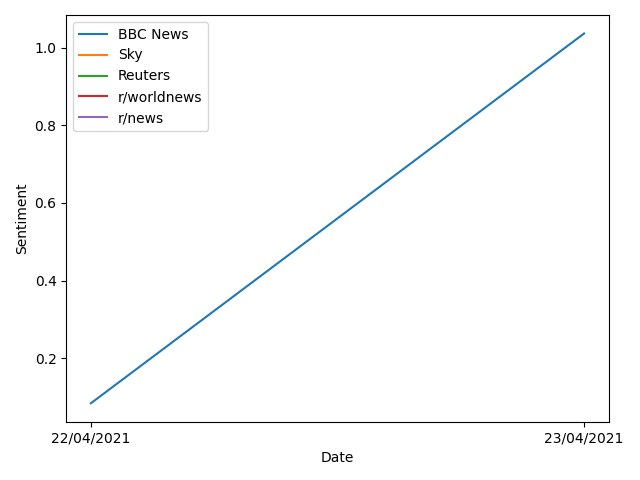
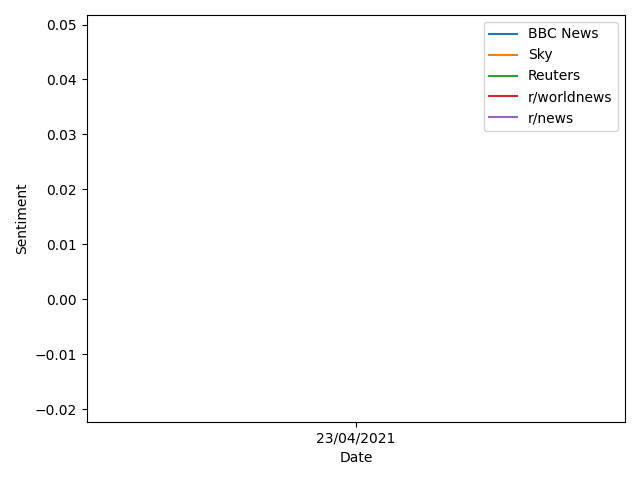
Automatic update (gitControl.py)

diff --git a/code/chart.py b/code/chart.py
@@ -5,10 +5,8 @@ import csv
 dir_path = os.path.dirname(os.path.realpath(__file__))
 
 def plotMeanSentiment():
-    # make graph
     x = []
     y = []
-
     with open(dir_path+'/csv/mean-sentiment.csv', 'r') as csvfile:
         plots = csv.reader(csvfile, delimiter=',')
         for row in plots:
@@ -26,20 +24,16 @@ def plotMeanSentiment():
     plt.savefig(dir_path+'/img/daily-sentiment-graph.png')
 
 def plotPerSiteSentiment():
-    # make graph
-
     plt.clf()
     with open(dir_path+'/csv/site-mean-sentiment.csv', 'r') as csvfile:
-        plots = csv.reader(csvfile, delimiter=',')
-        headers=next(plots)
-
+        plots = list(csv.reader(csvfile, delimiter=','))
+        headers=plots[0]
         for i in range(2,len(headers)+1):
             x = []
             y = []
-            for row in plots:
+            for row in plots[1:]:
                 x.append(row[0])
-                y.append(float(row[i]))
-            print(headers[i-1],x,y)
+                y.append(float(row[i-1]))
             plt.plot(x, y, label=headers[i-1])
             plt.legend()
 
@@ -53,3 +47,5 @@ def plotPerSiteSentiment():
 def main():
     plotMeanSentiment()
     plotPerSiteSentiment()
+
+plotPerSiteSentiment()
